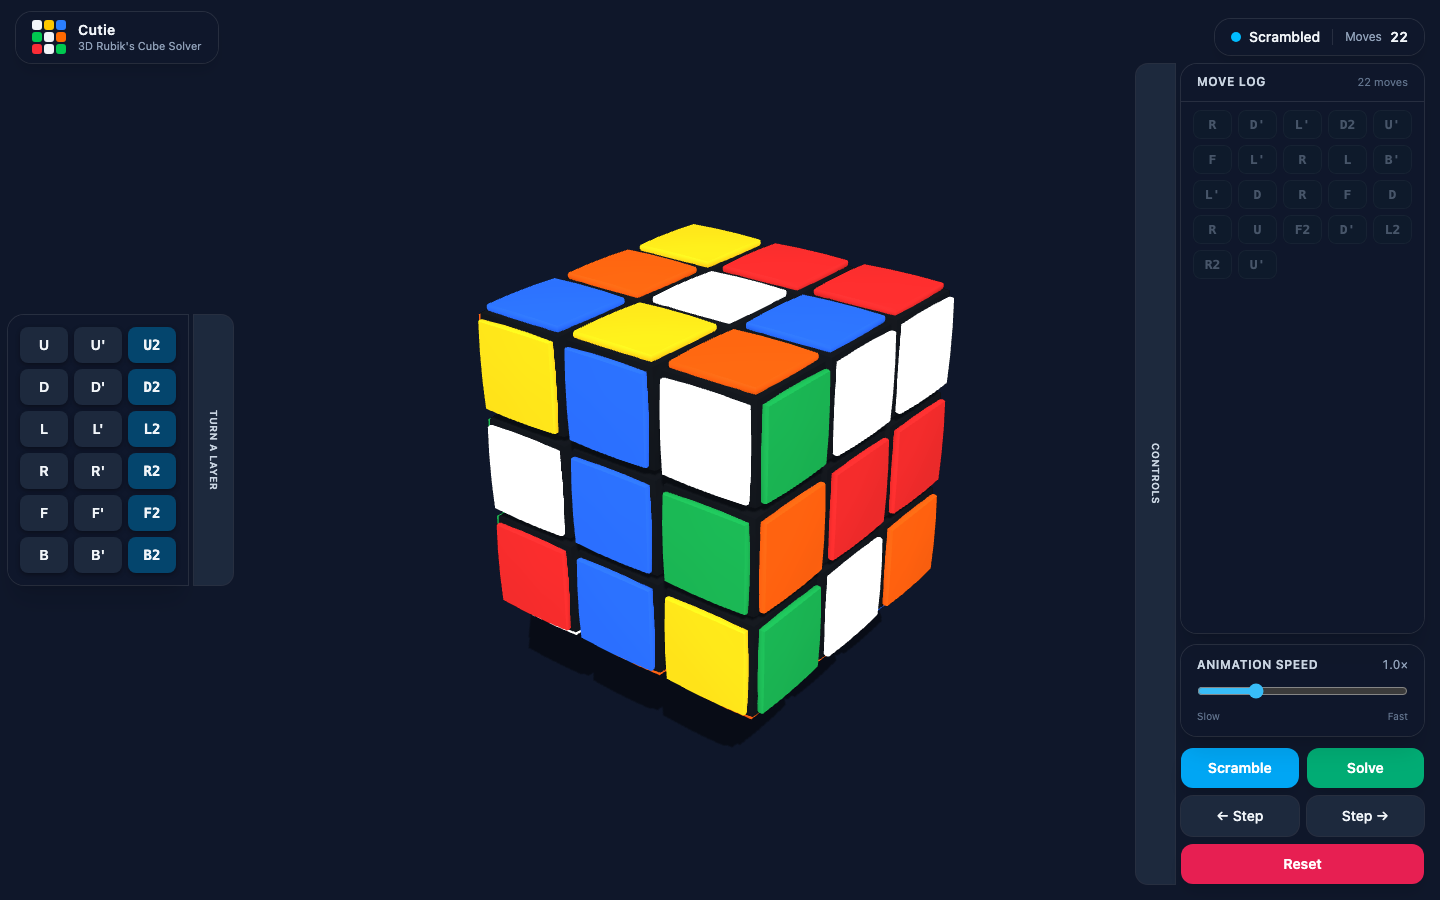
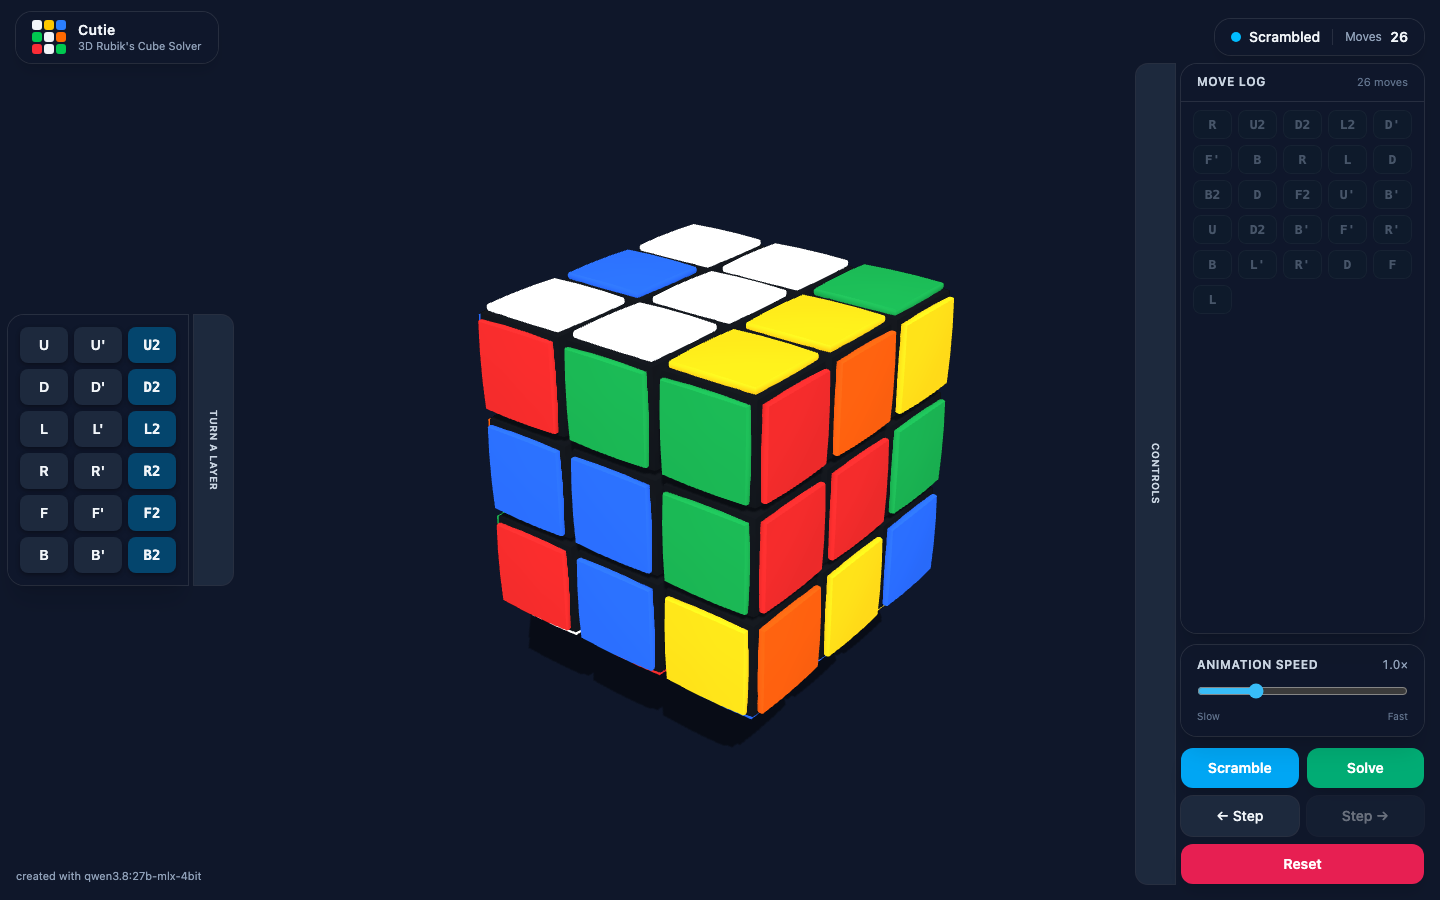
Make the bottom-left attribution credit card permanent (#11)
Stop dismissing the #attribution credit card ('created with
qwen3.8:27b-mlx-4bit') on the first key press / pointer interaction
so it stays visible at all times. The drag-to-orbit hint keeps its
dismiss-on-first-interaction behavior.

Regenerate screenshots and update the as-built doc to match.

Changed region(s): [[0.3125, 0.2489, 0.6875, 0.8089], [0.0312, 0.9644, 0.125, 0.9956], [0.9375, 0.9022, 0.9688, 0.9333]]

diff --git a/index.html b/index.html
@@ -1392,17 +1392,19 @@
     <p class="text-[11px] text-slate-400">created with qwen3.8:27b-mlx-4bit</p>
   </div>
 
-  <!-- ======================= Dismiss onboarding hints ======================= -->
-  <!-- Fade out and remove the two onboarding hints (the drag-to-orbit card and
-       the bottom-left attribution) on the FIRST key press or pointer interaction
-       anywhere in the viewport — including any shortcut key and any button/tab
-       click. A capture-phase document listener catches every such event no matter
-       which element it starts from, and we do NOT stop propagation, so the app's
-       own key/click handlers keep working. Both hints are pointer-events:none, so
-       the dismissing interaction passes through them. -->
+  <!-- ======================= Dismiss the drag-to-orbit hint ======================= -->
+  <!-- Fade out and remove the drag-to-orbit onboarding hint on the FIRST key press
+       or pointer interaction anywhere in the viewport — including any shortcut key
+       and any button/tab click. A capture-phase document listener catches every
+       such event no matter which element it starts from, and we do NOT stop
+       propagation, so the app's own key/click handlers keep working. The hint is
+       pointer-events:none, so the dismissing interaction passes through it.
+       The bottom-left attribution (the "created with qwen3.8:27b-mlx-4bit" credit
+       card) is intentionally NOT a hint: it is not in this dismiss list and stays
+       visible at all times. -->
   <script>
     (function hideHintsOnFirstInteraction() {
-      const hints = [document.getElementById('drag-hint'), document.getElementById('attribution')].filter(Boolean);
+      const hints = [document.getElementById('drag-hint')].filter(Boolean);
       if (!hints.length) return;
       const REDUCED = window.matchMedia('(prefers-reduced-motion: reduce)').matches;
       let dismissed = false;

diff --git a/docs/as-built/cutie_current.md b/docs/as-built/cutie_current.md
@@ -209,6 +209,9 @@ buttons don't flicker while a sequence animates (see the *Cursor model* note in
 ### Misc
 - **Drag-to-rotate hint**: a small pill, centered horizontally near the top, "Drag
   to orbit · Scroll/Pinch to zoom"; it fades out on the first interaction.
+- **Attribution (credit card)**: a small bottom-left line, "created with
+  qwen3.8:27b-mlx-4bit"; it stays visible at all times and is NOT an onboarding
+  hint (not dismissed on first interaction).
 - **Solver toast**: centered bottom toast with spinner ("Warming up the
   solver…"), also reused for error messages, auto-hiding after ~4s.
 
